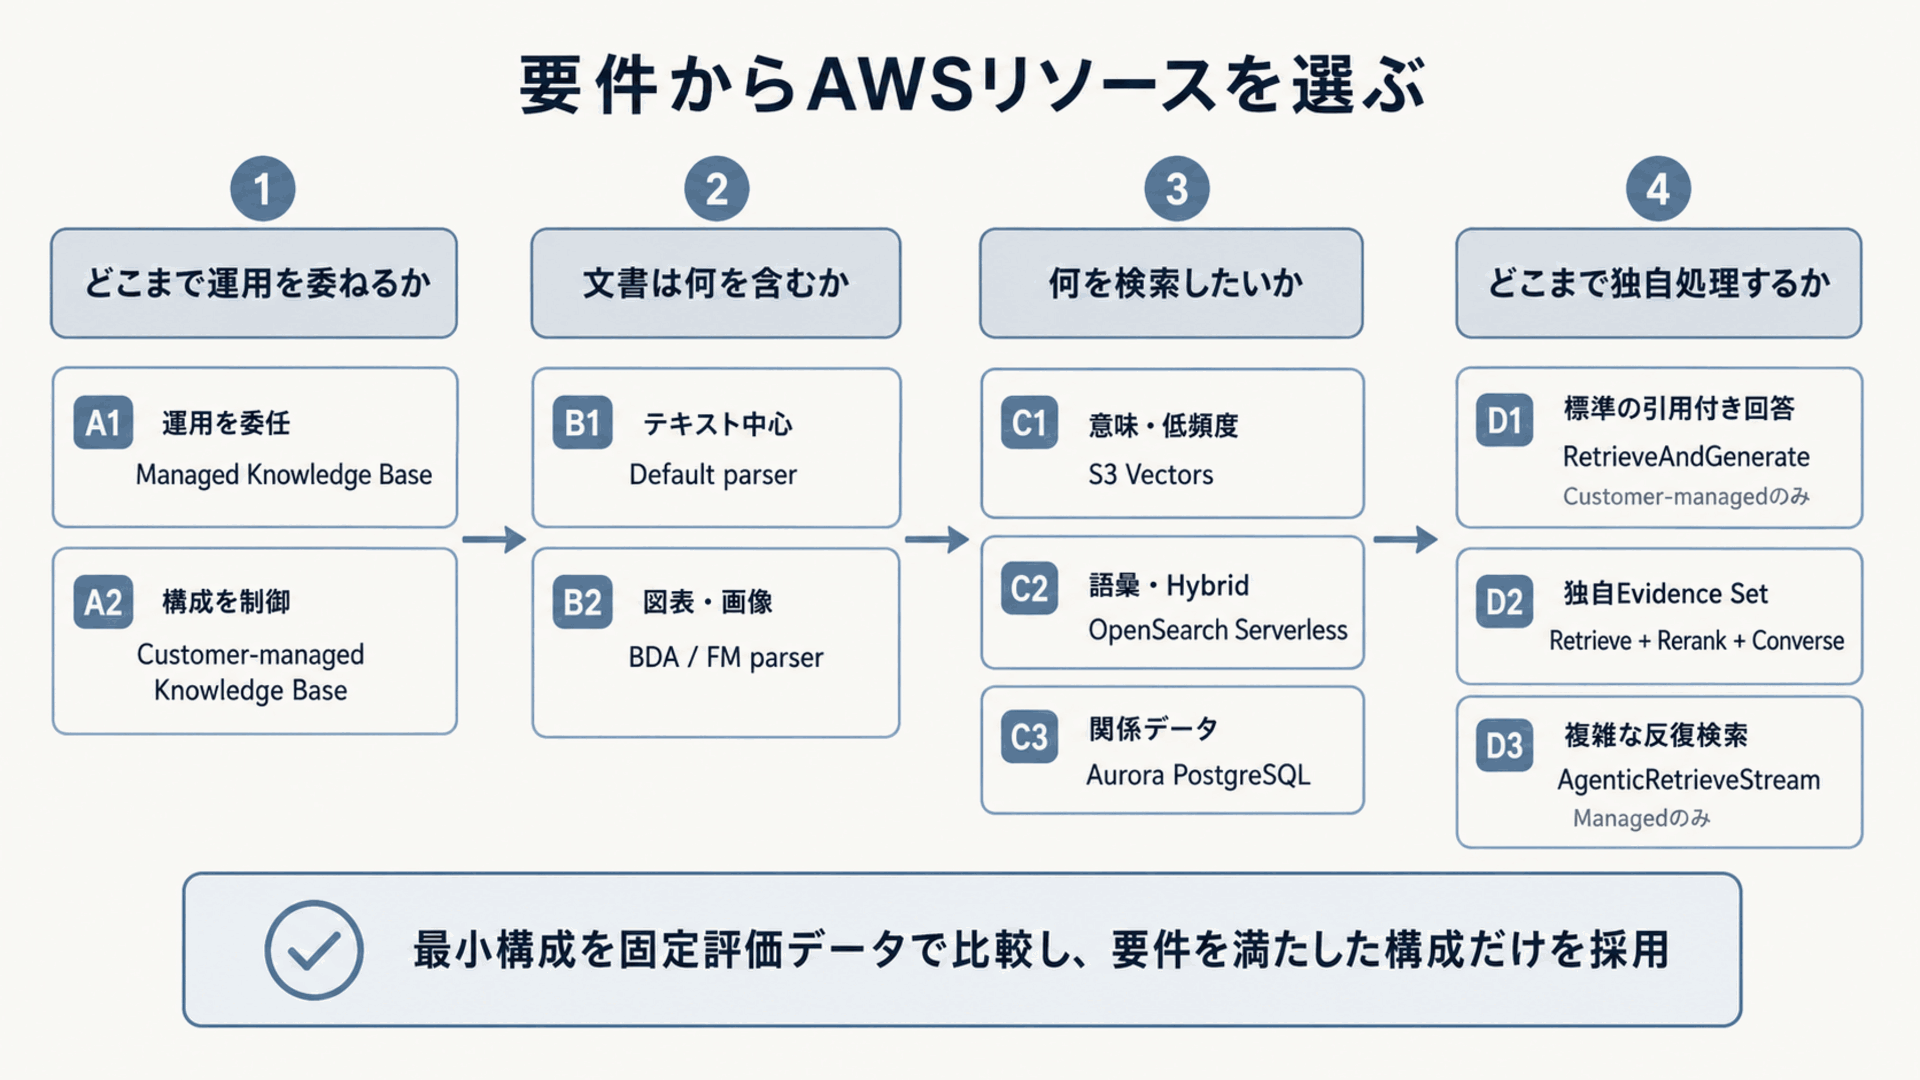
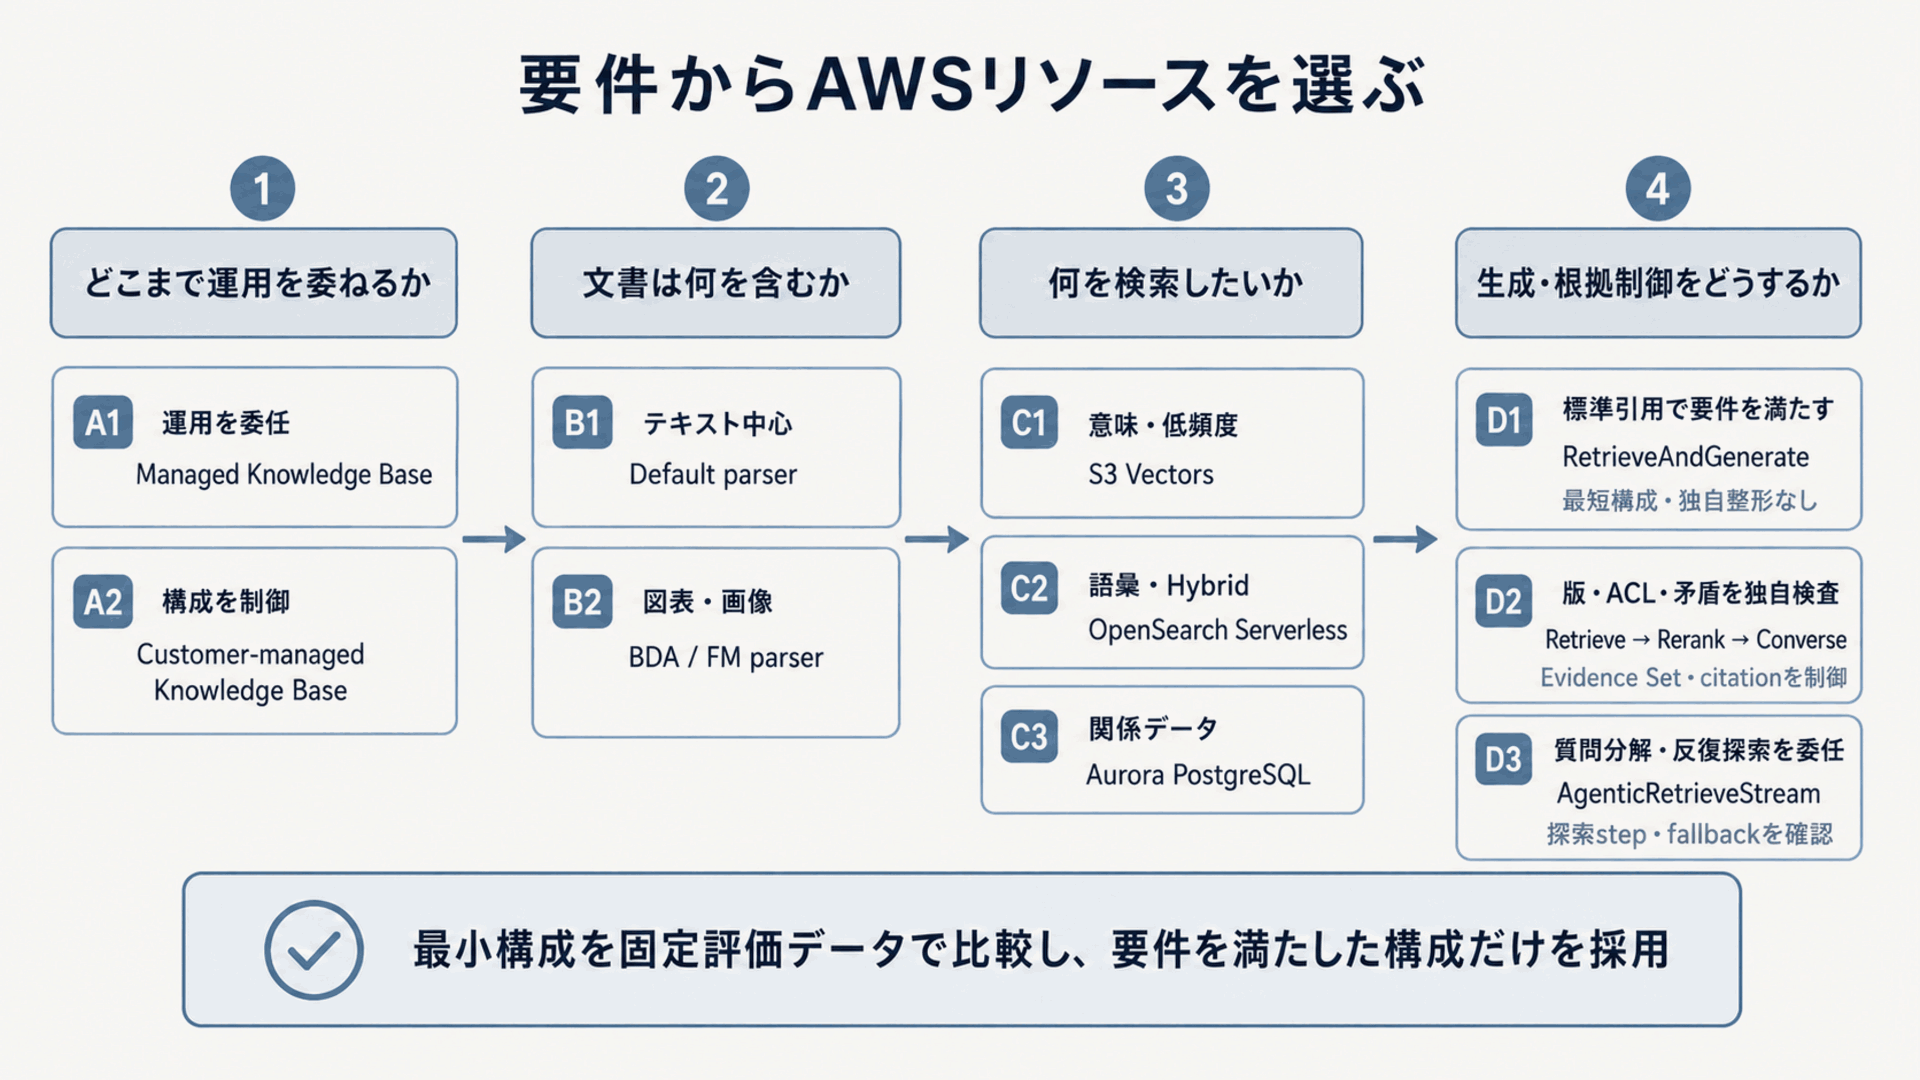
AWSリソース選択図に判断理由を追加

diff --git a/assets/image-prompts/45-aws-resource-selection.md b/assets/image-prompts/45-aws-resource-selection.md
@@ -7,12 +7,14 @@
 
 ## 生成プロンプト
 
-日本語の技術書に掲載する、RAG要件からAWSリソースを選択する横長の判断フロー図。16:9、白背景、濃紺・青緑・AWSオレンジを使ったフラットで整理されたデザイン。左端の「要件」から右へ、次の五段階を太い矢印で接続する。
+日本語の技術書に掲載する、RAG要件からAWSリソースを選択する横長の判断フロー図。16:9、白背景、濃紺と青灰色を使ったフラットで整理されたデザイン。左から右へ、次の四段階を太い矢印で接続する。
 
-1. 「運用責任」: Managed Knowledge Base / カスタマーマネージド型
-2. 「文書特性」: default parser / Bedrock Data Automation・foundation model parser
-3. 「検索要件」: S3 Vectors（semantic）/ OpenSearch Serverless（hybrid）/ Aurora PostgreSQL（vector + relational）
-4. 「制御粒度」: RetrieveAndGenerate / Retrieve → rerank → Converse / AgenticRetrieveStream
-5. 「独自処理の実行」: Lambda / Step Functions / ECS on Fargate
+1. 「どこまで運用を委ねるか」: 「運用を委任 / Managed Knowledge Base」、「構成を制御 / Customer-managed Knowledge Base」
+2. 「文書は何を含むか」: 「テキスト中心 / Default parser」、「図表・画像 / BDA / FM parser」
+3. 「何を検索したいか」: 「意味・低頻度 / S3 Vectors」、「語彙・Hybrid / OpenSearch Serverless」、「関係データ / Aurora PostgreSQL」
+4. 「生成・根拠制御をどうするか」: 次の選択理由とサービス名を三つのカードへ表示する。
+   - 「標準引用で要件を満たす / RetrieveAndGenerate / 最短構成・独自整形なし」
+   - 「版・ACL・矛盾を独自検査 / Retrieve → Rerank → Converse / Evidence Set・citationを制御」
+   - 「質問分解・反復探索を委任 / AgenticRetrieveStream / 探索step・fallbackを確認」
 
-各段階の下に、判断軸を短く表示する。「運用委任か直接制御か」「text中心かlayout・multimodalか」「semanticだけか語彙一致も必要か」「標準引用かEvidence Setか」「短時間かworkflowか長時間containerか」。最終到達点は「構成候補を固定し、同じ評価データで比較」。AWS公式アイコンの模倣ではなく、読みやすいカード、分岐線、抽象アイコンを使う。サービス一覧の羅列ではなく選択順序が一目で分かること。日本語ラベルを正確に表示し、写真、人物、装飾的な背景、細かすぎる注釈は使わない。
+④はサービス名の列挙ではなく、「標準機能で要件を満たせるか」「なぜ独自Evidence Setが必要か」「探索をサービスへ委ねるか」という選択理由を主見出しにする。とくに独自処理は、版、ACL、矛盾、citationをアプリケーション側で検査・制御する必要がある場合に選ぶことを明示する。最終到達点は「最小構成を固定評価データで比較し、要件を満たした構成だけを採用」。AWS公式アイコンの模倣ではなく、読みやすいカードと分岐線を使う。サービス一覧の羅列ではなく選択順序が一目で分かること。日本語ラベルを正確に表示し、写真、人物、装飾的な背景、細かすぎる注釈は使わない。
